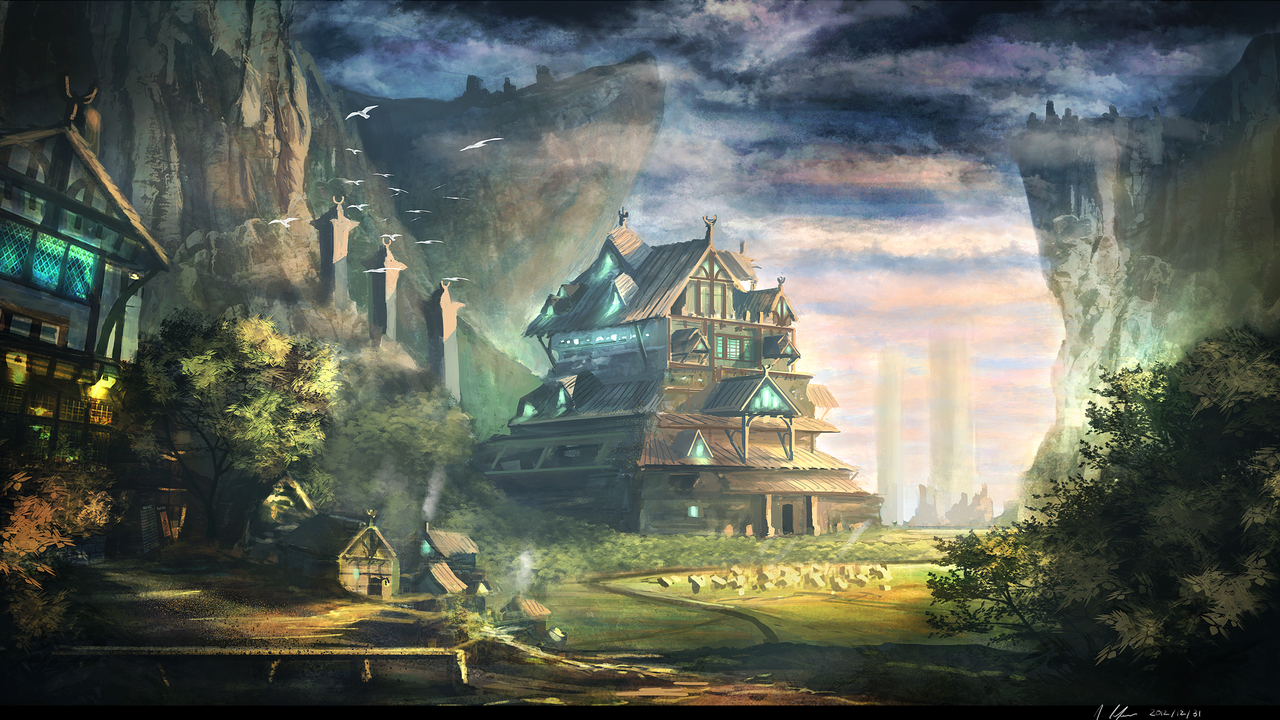
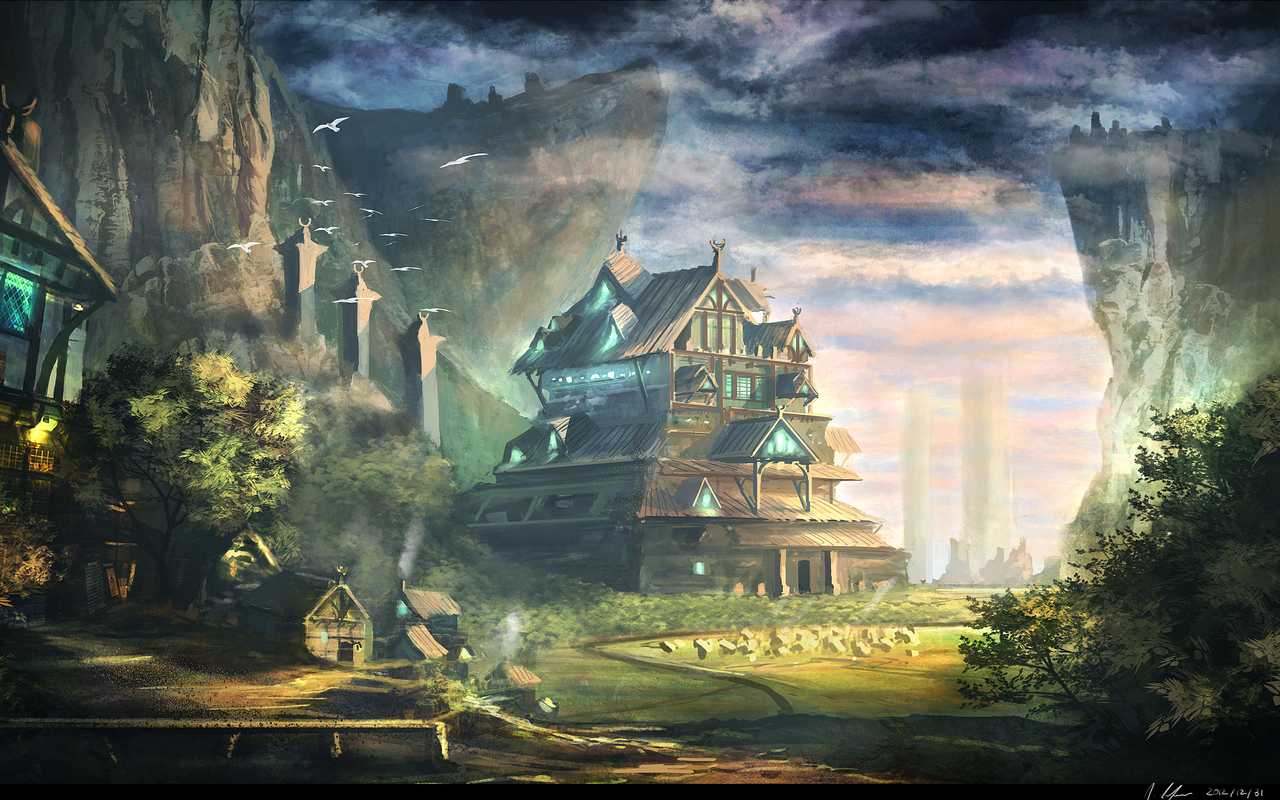
ajout des textes dans le model, ajout d'un fichier data.txt contenant les infos sur la résolution, la police et la langue, ainsi qu'un parser pour ce fichier.

diff --git a/Viewer.py b/Viewer.py
@@ -6,6 +6,7 @@ from pygame.locals import *
 
 from page_handler import PageHandler
 import sprites
+from data_parser import data
 pygame.init()
 
 
@@ -56,13 +57,14 @@ class BaseViewer:
 
 
 class Viewer(BaseViewer):
-    def __init__(self, framerate=30):
+    def __init__(self, text_getter, framerate=30):
         logger.debug('initialize Viewer')
         super(Viewer, self).__init__(framerate)
         self.page_handler = self.ViewerPageHandler()
+        self.text_getter = text_getter
 
     def init_pages(self):
-        self.page_handler.add_page('StartingPage', self.events)
+        self.page_handler.add_page('StartingPage', self.events, self.text_getter)
 
     def play(self):
         self.page_handler.current_page.unbind_events()
@@ -105,31 +107,35 @@ class Viewer(BaseViewer):
 
         class StartingPage(_MainMenu):
 
-            def __init__(self, event_dict):
+            def __init__(self, event_dict, text_getter):
                 bg_path = 'Images\\bg.png'
                 super().__init__(event_dict, bg_path)
 
-                self.font = pygame.font.Font('.\\Lucida.ttf', 60)
+                self.text_getter = text_getter
+                self.font = pygame.font.Font(data['font'], 60)
                 self.fonts = dict()
                 self.changes = set()
+                self.language = data['language']
 
             def display_text(self):
 
                 # Quit text
-                render = self.font.render('Quit', True, (255, 255, 255))
+                quit_text = tuple(self.text_getter((self.language,), 2))[0][-1]
+                render = self.font.render(quit_text, True, (255, 255, 255))
                 rect = render.get_rect().move(70, 540).inflate(-4, -4)
 
-                render2 = self.font.render('Quit', True, (180, 180, 180))
+                render2 = self.font.render(quit_text, True, (180, 180, 180))
                 rect2 = render2.get_rect().move(70, 540).inflate(-4, -4)
 
                 self.fonts['quit'] = [(render, rect), (render2, rect2), 0]
                 self.changes.add('quit')
 
                 #  Play text
-                render = self.font.render('Play', True, (255, 255, 255))
+                play_text = tuple(self.text_getter((self.language,), 1))[0][-1]
+                render = self.font.render(play_text, True, (255, 255, 255))
                 rect = render.get_rect().move(70, 440).inflate(-4, -4)
 
-                render2 = self.font.render('Play', True, (180, 180, 180))
+                render2 = self.font.render(play_text, True, (180, 180, 180))
                 rect2 = render2.get_rect().move(70, 440).inflate(-4, -4)
 
                 self.fonts['play'] = [(render, rect), (render2, rect2), 0]

diff --git a/Model.py b/Model.py
@@ -11,6 +11,14 @@ class Model:
         self.database_connection = sqlite3.connect('data.db')
         self.cursor = self.database_connection.cursor()
 
+    def get_text(self, languages, text_id=-1):
+
+        code = '''SELECT id, ''' + ', '.join(languages) + ''' FROM Text'''
+        if text_id != -1:
+            code += ' WHERE id = {}'.format(text_id)
+
+        return self.cursor.execute(code)
+
     def get_level(self, level_id=-1):
 
         code = '''SELECT id, base_pos_x, base_pos_y, label
@@ -73,4 +81,8 @@ class Model:
             return iter(self._structures)
 
 
+if __name__ == '__main__':
+    model = Model()
+    text = model.get_text(('en',), 1)
+    print(list(text))
 

diff --git a/data_parser.py b/data_parser.py
@@ -1,0 +1,25 @@
+# -*- coding:Utf-8 -*-
+
+import os
+
+
+def get_data():
+    with open('data.txt', 'r') as file:
+        data_dict = dict()
+        for line in file:
+            if len(line) > 2:
+                key, data_type, value = line.split(' ')
+                if value.endswith('\r\n'):
+                    value = value[:-2]
+                else:
+                    value = value[:-1]
+                if data_type == 'integer':
+                    value = int(value)
+                elif data_type == 'path':
+                    value = os.path.realpath(value[1:-1])
+
+                data_dict[key] = value
+    return data_dict
+
+
+data = get_data()

diff --git a/Images/convert_bg_img.py b/Images/convert_bg_img.py
@@ -7,7 +7,7 @@ from PIL import Image, ImageOps
 root = tk.Tk()
 
 sw = 1280
-sh = 720
+sh = 800
 
 img = Image.open('landscape_painting_by_jonathandufresne-d5pwwbq.jpg')
 
